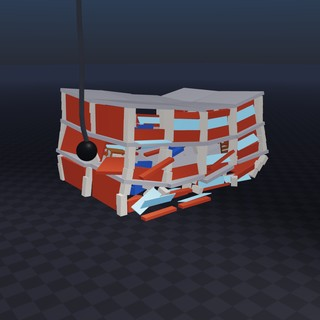
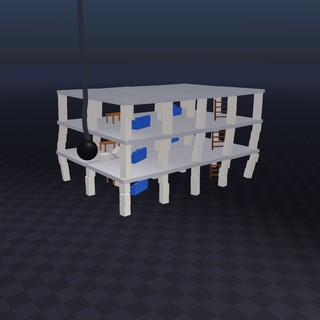
Open up the wrecking-ball building and return to four substeps
Drop the brick and glass cladding and the side walls: they hid the
columns, slabs and furniture, which is what the demolition is about.
Without the walls absorbing energy in the debris pile, the ball spikes
past 20 m/s against the column blocks at two substeps and goes
non-finite, so step at four substeps again (about 15 ms per frame).

Changed region(s): [[0.1562, 0.25, 0.8438, 0.6875]]

diff --git a/newton/examples/feather_pgs/example_fpgs_wrecking_ball.py b/newton/examples/feather_pgs/example_fpgs_wrecking_ball.py
@@ -5,10 +5,10 @@
 # Example FeatherPGS Wrecking Ball
 #
 # A seventeen-tonne ball hangs from a crane on a twelve-link ball-jointed chain
-# and swings into a three-storey building: concrete columns and slabs,
-# brick facade panels with glass strips, and furnished floors. Nothing is
-# glued: every column, panel, pane and piece of furniture is a free body
-# held in place by friction. The chain is a Featherstone articulation with
+# and swings into an open three-storey building: stacked-block concrete
+# columns, slab segments and furnished floors, with no walls so the collapse
+# stays visible. Nothing is glued: every column block, slab and piece of
+# furniture is a free body held in place by friction. The chain is a Featherstone articulation with
 # a seventeen-to-one mass ratio between the bob and its links.
 #
 # Command: python -m newton.examples fpgs_wrecking_ball
@@ -31,8 +31,7 @@ FLOORS = 3
 WIDTH, DEPTH = 14.0, 10.0
 FLOOR_H, SLAB_T, COLUMN = 2.7, 0.3, 0.55
 EAVE = 0.4  # slab overhang past the outer column faces
-MU_CONCRETE, MU_BRICK = 0.6, 0.6
-CLAD_GAP = 0.06  # clearance between cladding tops and the slab above
+MU_CONCRETE = 0.6
 SLAB_DENSITY = 2400.0
 BAYS = 4
 COLUMN_SEGMENTS = 3  # stacked blocks per storey column
@@ -55,8 +54,6 @@ SOLVER_OVERRIDES = {
 
 CONCRETE = wp.vec3(0.72, 0.70, 0.66)
 SLAB = wp.vec3(0.58, 0.58, 0.6)
-BRICK = wp.vec3(0.62, 0.26, 0.18)
-GLASS = wp.vec3(0.55, 0.8, 0.95)
 STEEL = wp.vec3(0.25, 0.26, 0.28)
 
 
@@ -66,9 +63,10 @@ class Example:
         self.viewer = viewer
         self.fps = 60
         self.frame_dt = 1.0 / self.fps
-        # Two substeps at eight iterations with a small proximal regularization keep
-        # the seventeen-tonne impact finite; six iterations blow up in the debris pile.
-        self.sim_substeps = 2
+        # Four substeps at eight iterations with a small proximal regularization keep
+        # the seventeen-tonne ball finite once it sits in the debris pile; at two
+        # substeps it spikes past 20 m/s against the column blocks and goes non-finite.
+        self.sim_substeps = 4
         self.sim_dt = self.frame_dt / self.sim_substeps
         self.sim_time = 0.0
         self.release_angle = RELEASE_ANGLE
@@ -80,8 +78,6 @@ class Example:
         # which velocity-level PGS handles; lighter debris blows up on impact.
         self.concrete = newton.ModelBuilder.ShapeConfig(density=2400.0, mu=MU_CONCRETE, restitution=0.0)
         self.slab_cfg = newton.ModelBuilder.ShapeConfig(density=SLAB_DENSITY, mu=MU_CONCRETE, restitution=0.0)
-        self.brick = newton.ModelBuilder.ShapeConfig(density=1800.0, mu=MU_BRICK, restitution=0.0)
-        self.glass = newton.ModelBuilder.ShapeConfig(density=2500.0, mu=0.4, restitution=0.0)
         self.wood = newton.ModelBuilder.ShapeConfig(density=700.0, mu=0.7, restitution=0.0)
         self.building = []
         self.slabs = []
@@ -185,26 +181,6 @@ class Example:
                             (x, gy, z0 + (k + 0.5) * seg_h),
                             (COLUMN / 2, COLUMN / 2, seg_h / 2 - 0.002),
                         )
-            # Facade: brick spandrel, glass strip and parapet stacked per bay on the front
-            # and back. The stack stops CLAD_GAP short of the slab above so the columns
-            # alone carry the floors and a knocked-out column actually drops something.
-            for gy, sign in ((-DEPTH / 2, 1.0), (DEPTH / 2, -1.0)):
-                for gx in range(BAYS):
-                    x = -WIDTH / 2 + (gx + 0.5) * bay
-                    y = gy + sign * 0.15
-                    self._box(builder, self.brick, BRICK, (x, y, z0 + 0.45), (bay / 2 - COLUMN / 2 - 0.02, 0.12, 0.45))
-                    self._box(builder, self.brick, BRICK, (x, y, z0 + 2.07), (bay / 2 - COLUMN / 2 - 0.02, 0.12, 0.27))
-                    self._box(builder, self.glass, GLASS, (x, y, z0 + 1.35), (bay / 2 - COLUMN / 2 - 0.04, 0.03, 0.44))
-            # Side walls: brick panels between the end columns.
-            for gx in (-WIDTH / 2, WIDTH / 2):
-                for gy in (-DEPTH / 4, DEPTH / 4):
-                    self._box(
-                        builder,
-                        self.brick,
-                        BRICK,
-                        (gx, gy, z0 + (col_h - CLAD_GAP) / 2),
-                        (0.12, DEPTH / 4 - COLUMN / 2 - 0.02, (col_h - CLAD_GAP) / 2 - 0.005),
-                    )
             # Furniture on every floor.
             self._sofa(builder, (-3.5, -1.5, z0), yaw=0.4)
             self._table(builder, (-3.5, 1.8, z0), yaw=0.2)
